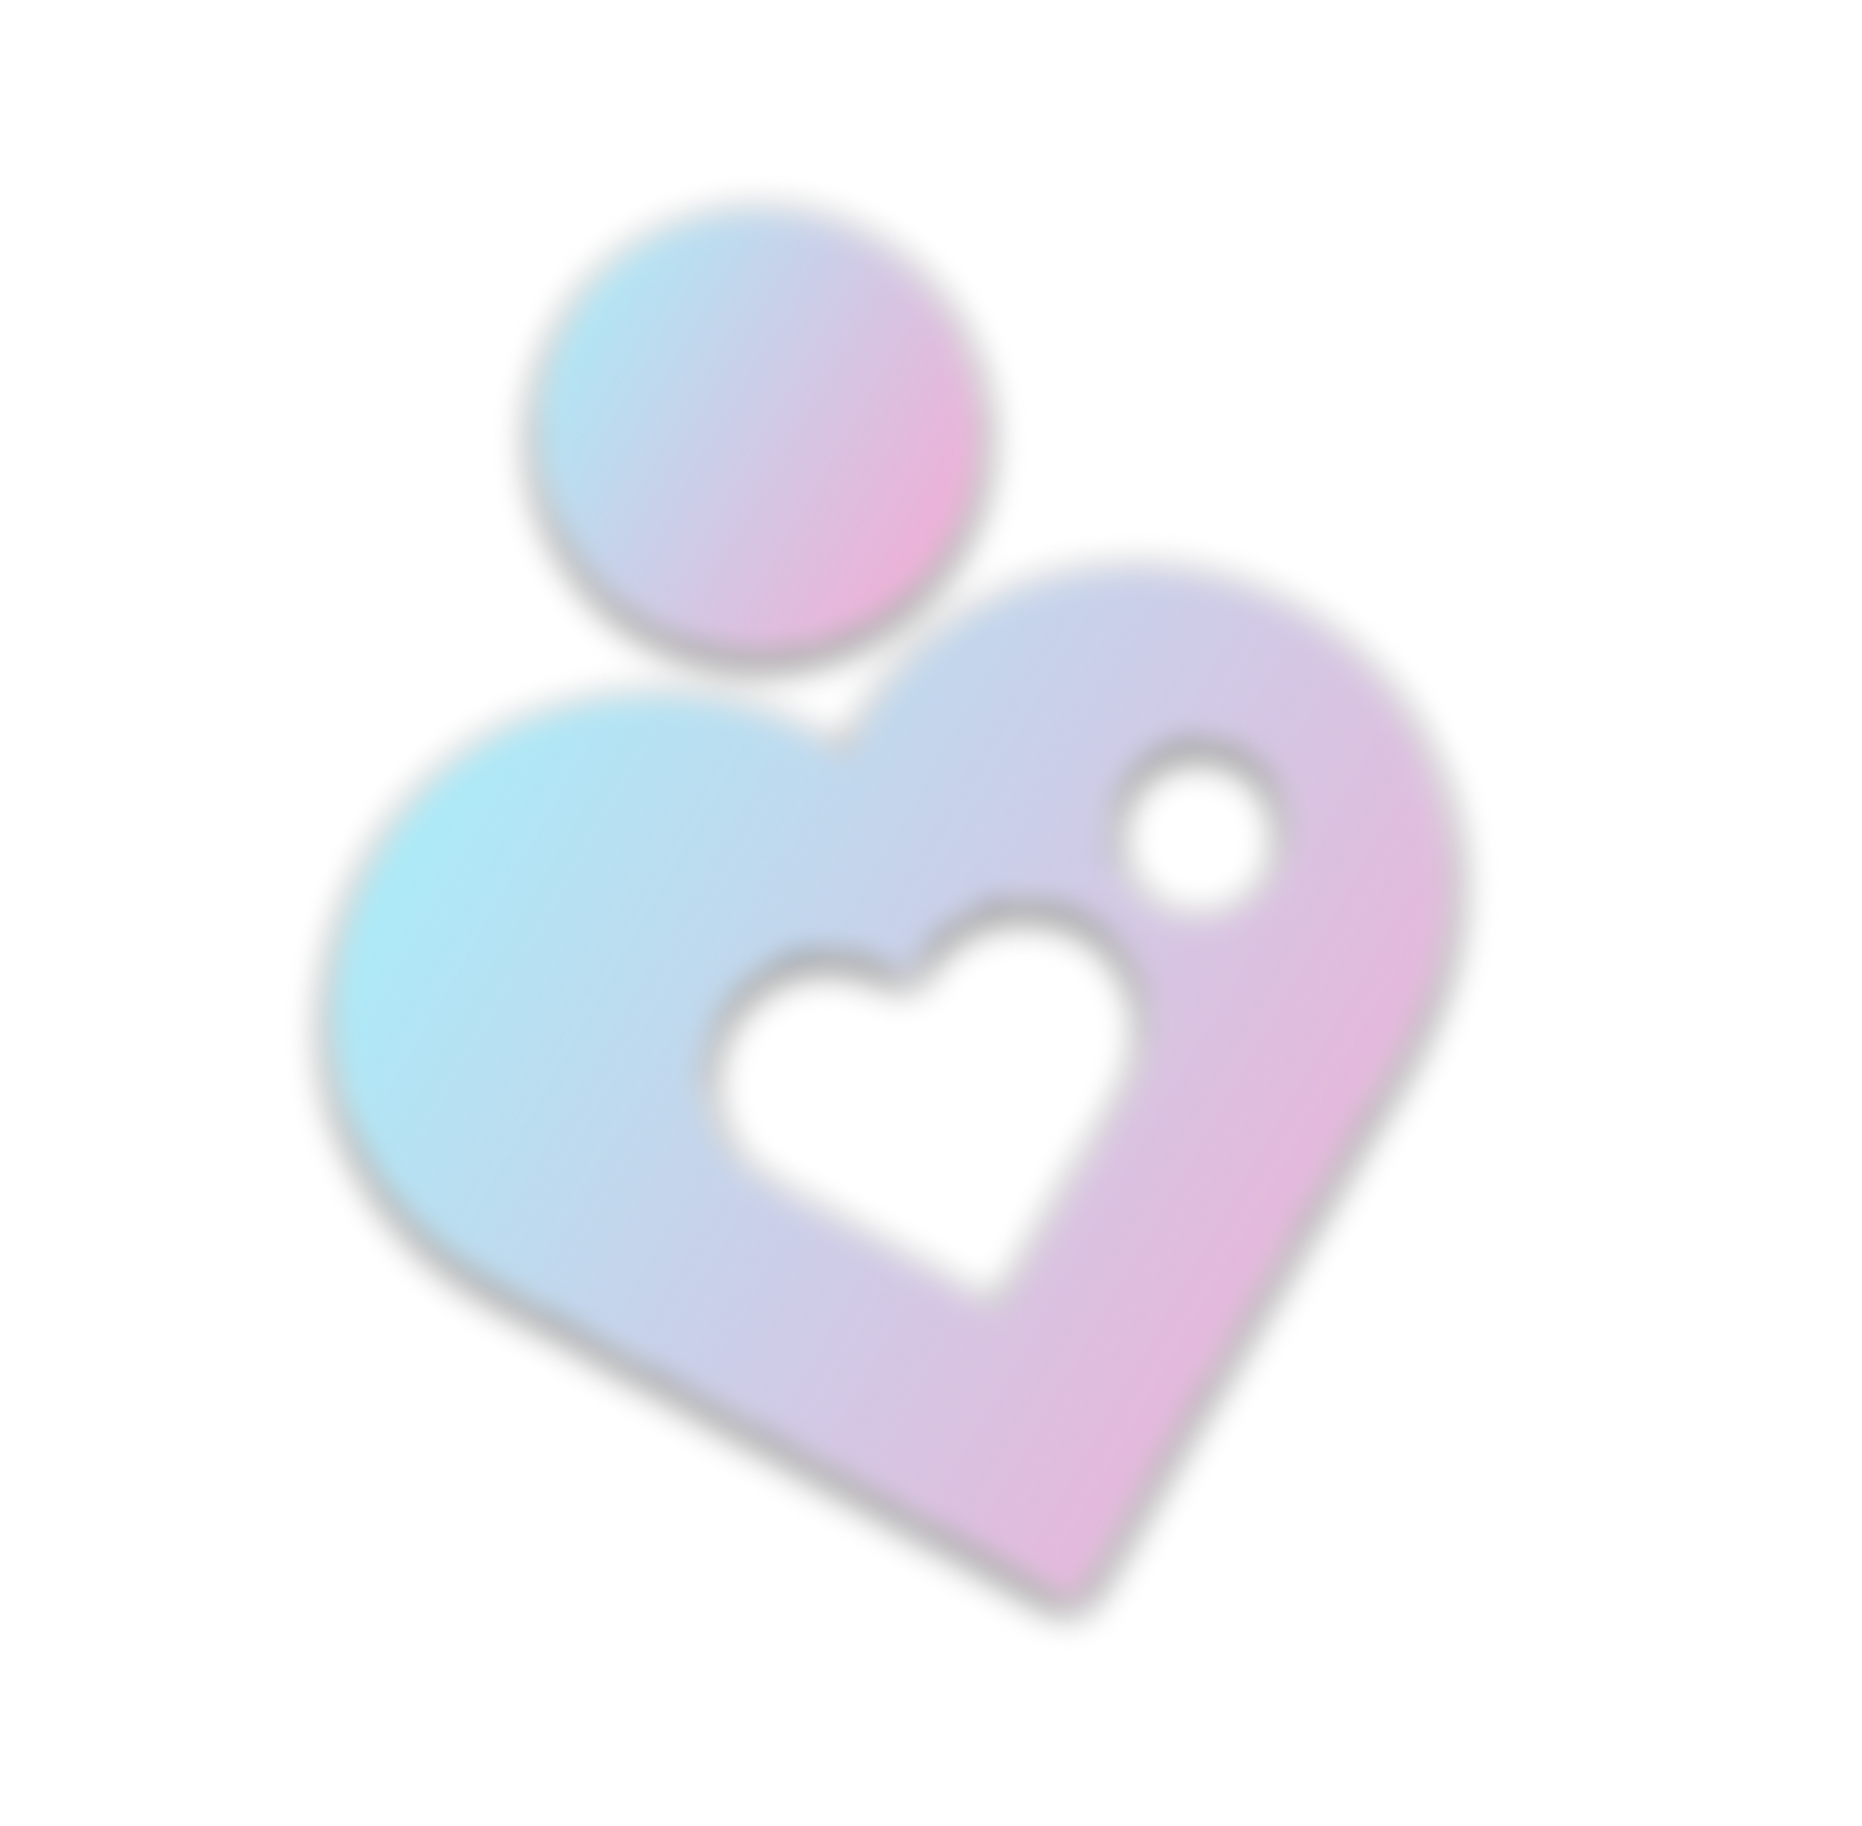
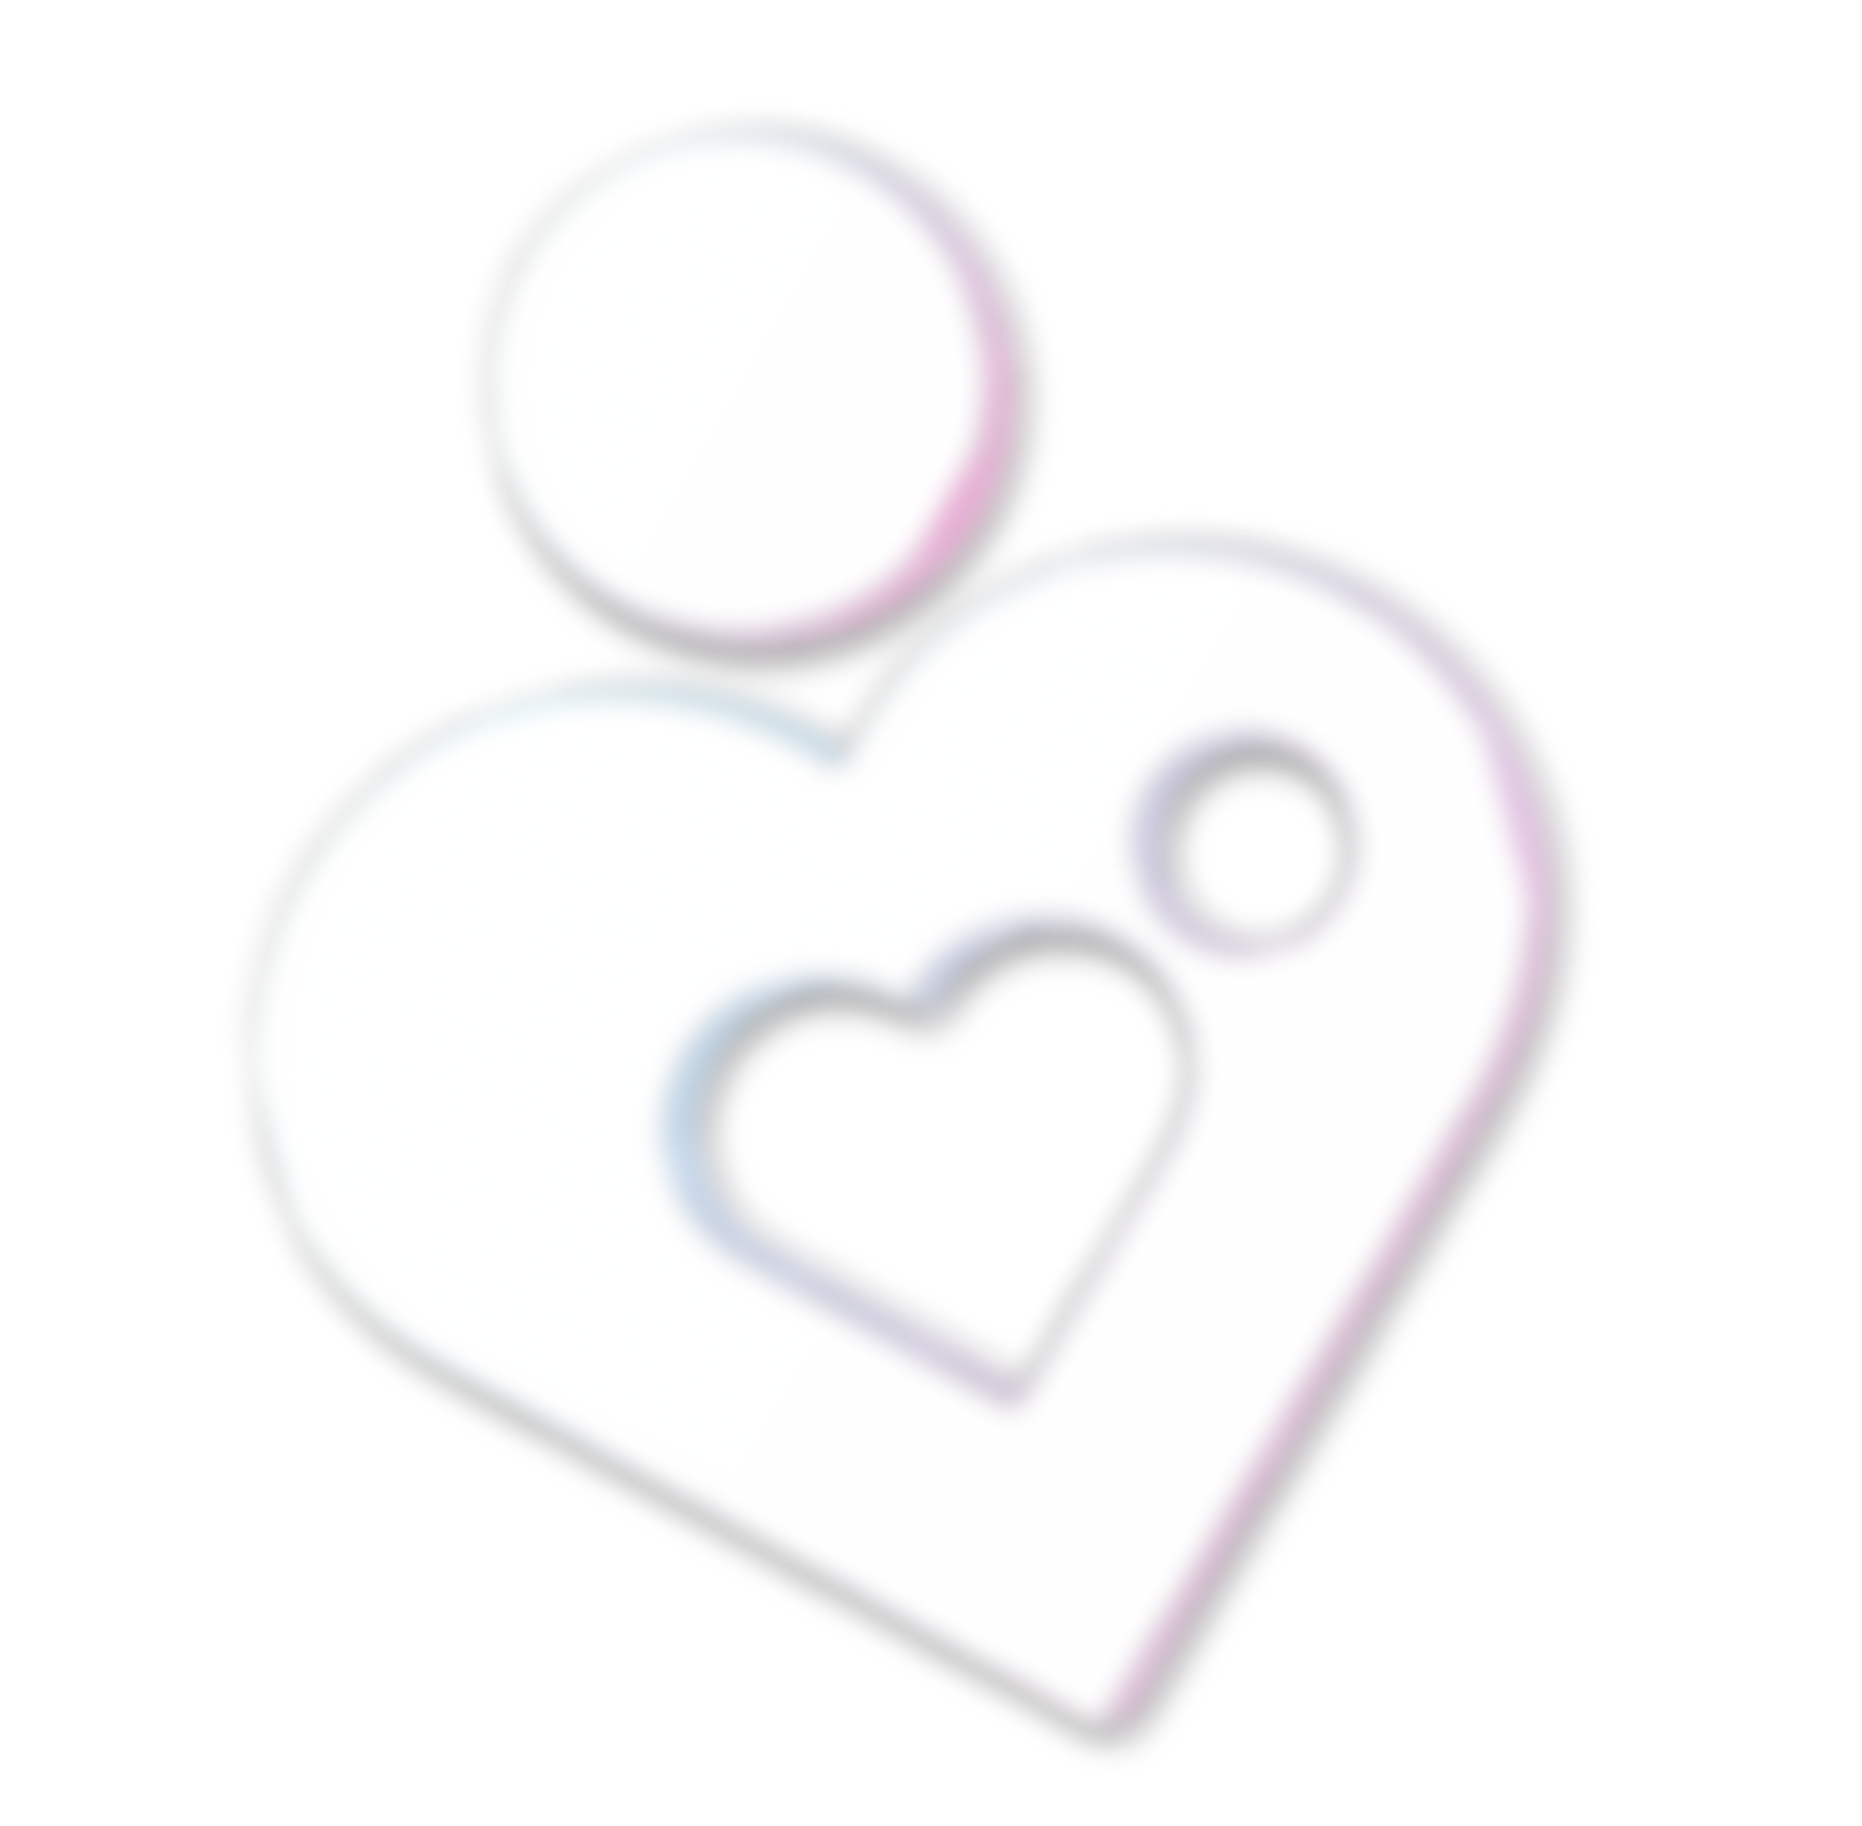
seção de contato, alteração na imagem

Changed region(s): [[0.1557, 0.0624, 0.841, 0.9677], [0.1557, 0.6867, 0.1869, 0.718]]

diff --git a/app/assets/styles/style.css b/app/assets/styles/style.css
@@ -1172,10 +1172,10 @@ footer .A-footerRight li.A-footerPolitic h4 {
 
 .La-contactSectionBackgroundImage{
     position: absolute;
-    height: 150vh;
-    left: -25rem;
+    height: 135vh;
+    left: -20rem;
     opacity: 0.6;
-    top: 430vh;
+    top: 435vh;
 }
 
 .La-landing .La-contactForm {
